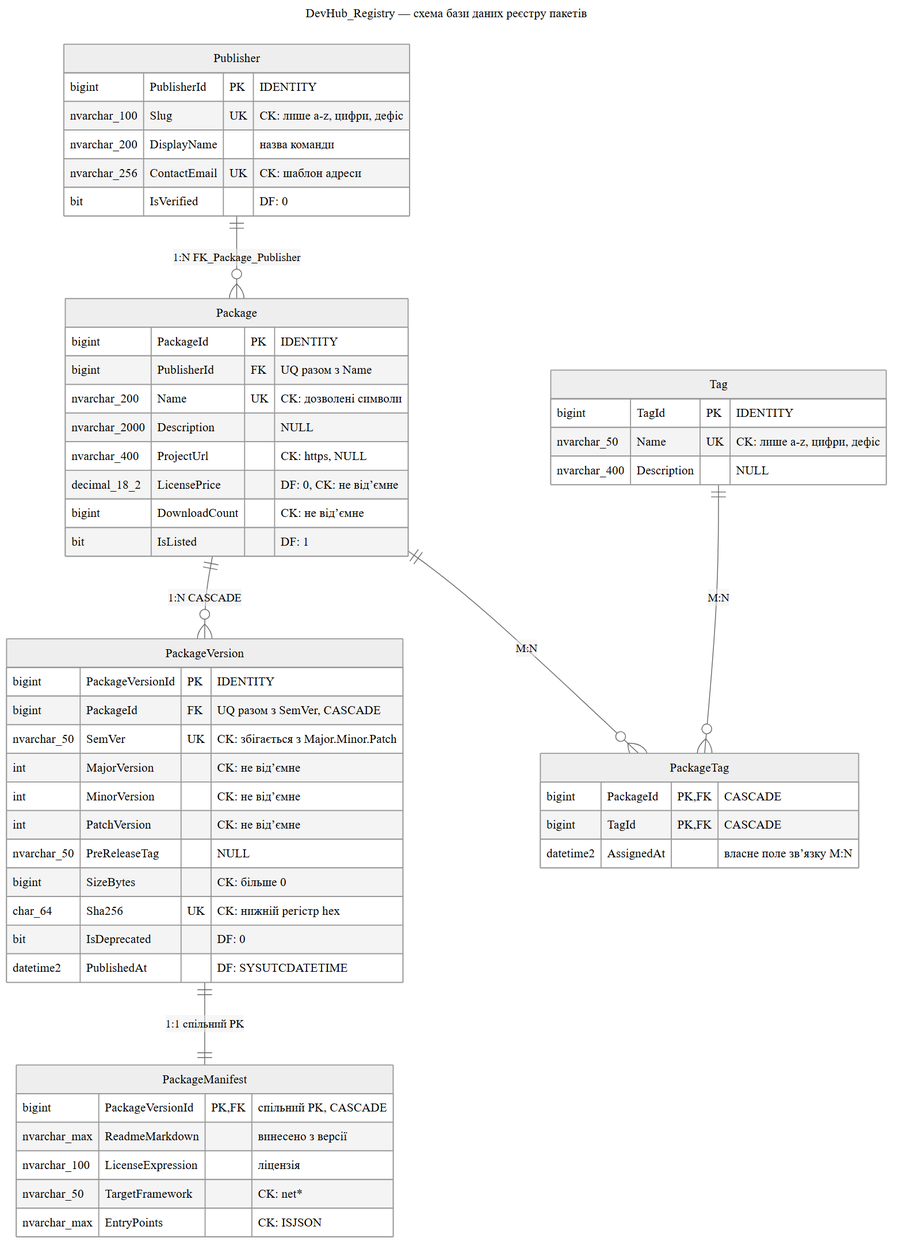
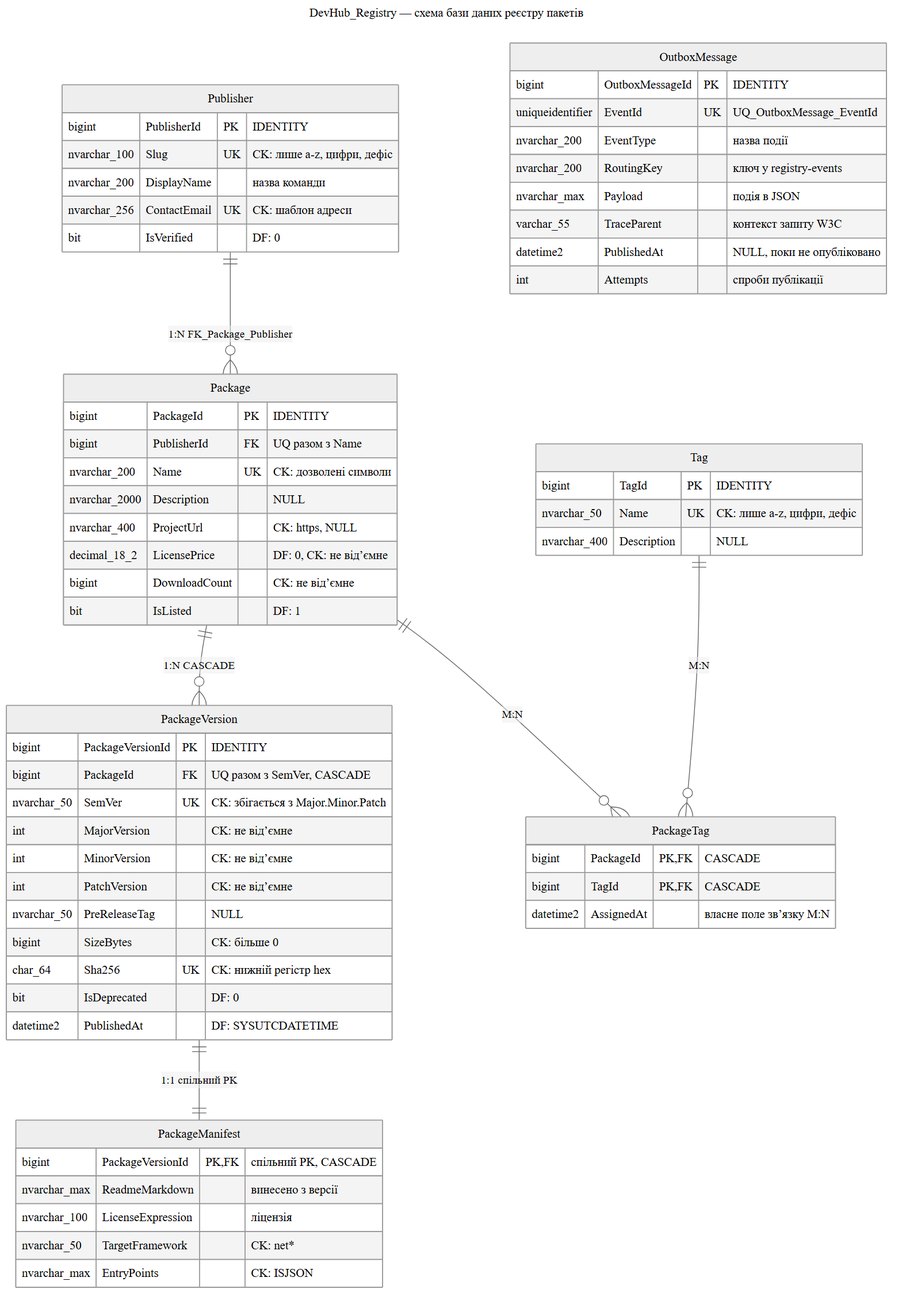
Update: README event-driven section, ERDs and screenshots

diff --git a/README.md b/README.md
@@ -9,7 +9,7 @@ DevHub – внутрішня платформа розробників одні
 
 | № | Контекст | БД | Технологія | Сутності / колекції |
 | --- | --- | --- | --- | --- |
-| 1 | Збірки CI/CD | `DevHub_Cicd` | SQL Server + ADO.NET і Dapper | `Pipeline`, `Agent`, `BuildRun`, `BuildRunDetail`, `BuildStep`, `Artifact`, `ArtifactUsage`, `RunStatusHistory` |
+| 1 | Збірки CI/CD | `DevHub_Cicd` | SQL Server + ADO.NET і Dapper | `Pipeline`, `Agent`, `BuildRun`, `BuildRunDetail`, `BuildStep`, `Artifact`, `ArtifactUsage`, `RunStatusHistory`, `Package` (копія реєстру) |
 | 2 | Реєстр пакетів | `DevHub_Registry` | SQL Server + EF Core (Code First) | `Publisher`, `Package`, `PackageVersion`, `PackageManifest`, `Tag`, `PackageTag` |
 | 3 | Телеметрія й обговорення | `devhub_telemetry` | MongoDB | `buildEvents`, `crashReports`, `discussions`, `packageInsights` |
 
@@ -53,6 +53,8 @@ DevHub – внутрішня платформа розробників одні
 | Поле | Де зберігається | Джерело (власник даних) | Політика узгодженості |
 | --- | --- | --- | --- |
 | `cicd.Pipeline.PackageKey` | БД збірок (`DevHub_Cicd`) | `registry.Publisher.Slug` + `registry.Package.Name` (Реєстр) | оновлюється подіями з Реєстру |
+| `cicd.Package.PackageName`, `cicd.Package.PublisherSlug`, `cicd.Package.PackageKey`, `cicd.Package.LicensePrice` | БД збірок (`DevHub_Cicd`) | `registry.Package.Name`, `registry.Publisher.Slug`, `registry.Package.LicensePrice` (Реєстр) | оновлюється подіями з Реєстру |
+| `cicd.Artifact.LicensePrice` | БД збірок (`DevHub_Cicd`) | `registry.Package.LicensePrice` через `cicd.Package` (Реєстр) | знімок на момент збірки, не оновлюється |
 | `cicd.Artifact.PackageName` | БД збірок (`DevHub_Cicd`) | `registry.Package.Name` (Реєстр) | знімок на момент збірки, не оновлюється |
 | `cicd.Artifact.PublisherSlug` | БД збірок (`DevHub_Cicd`) | `registry.Publisher.Slug` (Реєстр) | знімок на момент збірки, не оновлюється |
 | `cicd.Artifact.PackageKey` | БД збірок (`DevHub_Cicd`) | `registry.Publisher.Slug` + `registry.Package.Name` (Реєстр) | знімок на момент збірки, не оновлюється |
@@ -256,9 +258,9 @@ Gateway сервіс доступний на `http://localhost:5000`, напря
 Unit of Work відкриває одне з’єднання на HTTP-запит, і всі репозиторії працюють через нього та
 через одну поточну транзакцію. Найважливіша операція – завершення запуску
 (`POST /api/build-runs/{id}/complete`), що в одній транзакції переводить запуск у `Succeeded`
-процедурою `usp_TransitionRunStatus`, додає артефакти, зв’язує їх із запуском і копіює з конвеєра
-Id, ключ та назву пакета як знімок за політикою дублювання, тож артефакт не залежить від того, що
-згодом станеться з пакетом у Реєстрі. Збій будь-якого кроку відкочує транзакцію повністю. Статус
+процедурою `usp_TransitionRunStatus`, додає артефакти, зв’язує їх із запуском і копіює з локальної
+копії пакета `cicd.Package` його Id, ключ, назву й ціну ліцензії як знімок за політикою дублювання, тож
+артефакт не залежить від того, що згодом станеться з пакетом у Реєстрі. Збій будь-якого кроку відкочує транзакцію повністю. Статус
 запуску тоді лишається `Running`.
 
 Рівень ізоляції – `READ COMMITTED`. Процедури самі блокують рядок, який змінюють
@@ -982,3 +984,174 @@ Dashboard показує стан кожного ресурсу, а `WaitFor` ч
 ![Відповідь /health/ready з Degraded при зупиненому Redis](docs/screenshots/health-ready-degraded.png)
 
 ![Resources: сервіси зі станом Unhealthy при зупиненому SQL Server](docs/screenshots/resources-health.png)
+
+## Подієва взаємодія через RabbitMQ
+
+У політиці дублювання частину копій позначено як «оновлюється подіями з Реєстру»: `cicd.Pipeline.PackageKey`,
+назва й ключ пакета в `discussions` і `packageInsights`. Тепер ці події існують. Реєстр публікує в RabbitMQ
+кожну зміну пакета, а сервіс збірок і сервіс телеметрії оновлюють свої копії самі, не звертаючись до реєстру.
+Копія відстає від реєстру на частки секунди. Поля-знімки події не змінюють.
+
+### RabbitMQ в AppHost
+
+`AppHost.cs` додає брокер викликом `AddRabbitMQ("messaging").WithDataVolume().WithManagementPlugin()`. Том
+зберігає черги й повідомлення між перезапусками, а плагін керування відкриває веб-інтерфейс: у Dashboard це
+ендпоінт `management` ресурсу `messaging`, користувач `guest`, пароль – параметр `messaging-password` у user
+secrets AppHost. Посилання на брокер із `WaitFor` отримують `registry-api`, який публікує події, та
+`cicd-api` і `telemetry-api`, які їх споживають. Кожен сервіс підключається викликом
+`builder.AddRabbitMQClient("messaging")` з пакета `Aspire.RabbitMQ.Client.v7`, що реєструє один
+`IConnection` на застосунок і health check брокера; канали `IChannel` з асинхронним API RabbitMQ.Client 7.x
+сервіс відкриває для окремих операцій, а з’єднання після перезапуску брокера відновлюється само разом з
+підписками споживачів. Звичайний пакет `Aspire.RabbitMQ.Client` версії 9.5.2 залежить від
+RabbitMQ.Client 6.x, тому не підходить. Вбудоване трасування клієнта вимкнено (`DisableTracing = true`),
+бо контекст через брокер передає власний код (розділ «Трасування»).
+
+Контейнери SQL Server, MongoDB, Redis і RabbitMQ мають сталі імена `devhub-sql`, `devhub-mongo`,
+`devhub-redis` і `devhub-rabbitmq`, мітку `com.docker.compose.project=devhub`, за якою Docker Desktop
+показує їх однією групою, і життєвий цикл `ContainerLifetime.Persistent`. Після зупинки AppHost вони
+працюють далі, а наступний запуск бере ті самі контейнери; зупиняє їх `docker stop`.
+
+### Топологія
+
+Топологію оголошує код під час старту (`Platform.EventBus/EventBusTopology.cs`). Повторне оголошення тієї
+самої черги нічого не змінює.
+
+| Об’єкт | Тип | Параметри |
+| --- | --- | --- |
+| `registry-events` | exchange, topic, durable | події реєстру з ключами `package.*` |
+| `registry-events.dlx` | exchange, direct, durable | dead letter exchange |
+| `cicd.registry-sync` | черга, durable | binding `package.*`; `x-dead-letter-exchange` = `registry-events.dlx`, `x-dead-letter-routing-key` = `cicd.registry-sync` |
+| `telemetry.registry-sync` | черга, durable | binding `package.renamed`; DLX так само, з ключем `telemetry.registry-sync` |
+| `<черга>.retry` | черга, durable | `x-message-ttl` 5000; після TTL повідомлення повертається в основну чергу |
+| `<черга>.dlq` | черга, durable | прив’язана до `registry-events.dlx` з ключем основної черги |
+
+Сервіс збірок тримає копію всього пакета, тому підписаний на всі події пакетів. Телеметрії потрібна лише
+назва, і її черга отримує тільки перейменування. Dead letter exchange має тип direct, а кожна черга передає
+в нього власну назву як ключ. Повідомлення, відхилене сервісом збірок, потрапляє лише в
+`cicd.registry-sync.dlq`, а не в DLQ кожного споживача.
+
+![Черги в Management UI: основні, retry з TTL і DLQ обох споживачів](docs/screenshots/rabbitmq-queues.png)
+
+![Exchange registry-events типу topic і його bindings](docs/screenshots/rabbitmq-exchange.png)
+
+### Події реєстру
+
+| Подія | Ключ | Операція реєстру | Споживачі |
+| --- | --- | --- | --- |
+| `PackageCreatedEvent` | `package.created` | `POST /api/packages` | збірки |
+| `PackageRenamedEvent` | `package.renamed` | `PUT /api/packages/{id}/name` | збірки, телеметрія |
+| `PackageLicensePriceChangedEvent` | `package.license_price_changed` | `PUT /api/packages/{id}/license-price` | збірки |
+| `PackageDeletedEvent` | `package.deleted` | `DELETE /api/packages/{id}` | збірки |
+
+Базовий record `IntegrationEvent` у `Platform.EventBus` має `EventId`, `OccurredAt` і `CorrelationId`.
+Конкретні події – незмінні record у `Services/Registry/Registry.Api/IntegrationEvents/Events/`. Їхні копії
+лише з тими полями, які читає споживач, лежать у папках `IntegrationEvents` сервісу збірок і сервісу
+телеметрії; спільної збірки з контрактами немає. Кожна подія несе повний поточний знімок пакета: Id, slug
+видавця, назву, ключ і ціну ліцензії, а також попереднє значення зміненого поля. Тому споживач оновить копію
+з будь-якої події, навіть якщо пропустив `PackageCreatedEvent`. Перейменування – нова операція реєстру. Назва
+входить у ключ `<publisher>/<name>`, отже разом з нею змінюється ключ, а посилання за Id лишаються чинними.
+
+### Публікація після збереження
+
+Подія не може піти раніше за зміну, яку описує. `PackageService` записує подію в таблицю
+`registry.OutboxMessage` тим самим `SaveChangesAsync`, що й зміну пакета, а одразу після збереження викликає
+`PublishPendingAsync`. Якщо запис у базу не вдався, події немає навіть у таблиці. Створення пакета загорнуто
+в явну транзакцію, бо Id, потрібний події, з’являється тільки після першого збереження. `RabbitMqEventPublisher`
+серіалізує подію в JSON (`System.Text.Json`, camelCase) і публікує її з `Persistent = true`, тож повідомлення
+переживе перезапуск брокера; `ContentType` має значення `application/json`, `MessageId` дорівнює `EventId`,
+у `Type` стоїть назва події, а заголовки `x-correlation-id` та `x-schema-version` несуть ідентифікатор запиту
+й версію схеми. Канал працює з підтвердженнями видавця, тому опублікованим рядок стає лише тоді, коли брокер
+прийняв повідомлення.
+
+Коли брокер недоступний, запит однаково отримує 204, а рядок лишається неопублікованим разом з текстом
+помилки. `OutboxDispatcher` кожні 5 секунд перевіряє таблицю й публікує рядки, старші за 10 секунд. Під час
+перевірки із зупиненим RabbitMQ зміна ціни відповіла за 62 мс; після запуску брокера подію опубліковано з
+чотирнадцятої спроби, і копія в сервісі збірок отримала нову ціну.
+
+### Споживачі
+
+`RabbitMqConsumer` у `Platform.EventBus` – базовий `BackgroundService`. У `ExecuteAsync` він створює канал,
+оголошує топологію своєї черги, задає `BasicQos` з `prefetchCount` 10 і підписується через
+`AsyncEventingBasicConsumer` з `BasicConsumeAsync(autoAck: false)`. З кожного повідомлення він бере тип із
+`BasicProperties.Type`, десеріалізує тіло й передає подію обробнику цього типу, створеному в окремому
+DI-scope, тож репозиторії й Unit of Work живуть рівно стільки, скільки обробка одного повідомлення; сервіси
+успадковують від нього `RegistryEventsConsumer`, де задано чергу, ключі й типи подій, і реєструють його
+через `AddHostedService`. Під час зупинки застосунку споживач скасовує підписку за
+`stoppingToken` і чекає, поки завершиться обробка поточного повідомлення.
+
+| Результат обробки | Дія | Рівень логу |
+| --- | --- | --- |
+| Успіх | `BasicAckAsync` | Information |
+| Некоректний JSON, невідомий тип, новіша версія схеми, помилка валідації | `BasicNackAsync(requeue: false)` → `registry-events.dlx` → DLQ | Error |
+| Тимчасовий збій: база недоступна, таймаут | повторна публікація в `<черга>.retry` з `x-retry-count` + 1, оригінал підтверджується | Warning |
+| Невдала третя повторна спроба | `BasicNackAsync(requeue: false)` → DLQ | Error |
+
+Повторювати через requeue не можна: повернене повідомлення приходить без змін, і лічильник у заголовку не
+зростає. Тому споживач публікує повідомлення заново, причому не в `registry-events`, а через стандартний
+exchange прямо в чергу `.retry` свого споживача. Такий повтор не дістається іншим підписникам, а 5 секунд TTL дають
+базі час відновитися. Кожен запис логу обробки має `EventId`, тип події, `CorrelationId`, назву черги й номер
+спроби; обробники додають Id пакета.
+
+### Ідемпотентність і порядок подій
+
+RabbitMQ доставляє повідомлення щонайменше один раз, і та сама подія може прийти двічі. Обробники сервісу
+збірок (`Services/Cicd/Cicd.Api/IntegrationEvents/Handlers/`) в одній транзакції Unit of Work вставляють
+`EventId` у таблицю `cicd.ProcessedEvent` з первинним ключем `EventId` і оновлюють копію. Порушення ключа
+(помилка 2627) означає, що подію вже оброблено: обробник записує це в лог і відкочує транзакцію. Копія
+змінюється, тільки якщо `OccurredAt` події новіший за `SourceChangedAt` рядка. Подія, що після повторів прийшла
+пізніше за новішу, нічого не перезаписує.
+
+MongoDB сервісу телеметрії працює без набору реплік, тож транзакцій на кілька документів там немає. Його
+`UpdateMany` змінює лише документи, у яких `packageSyncedAt` не новіший за подію, і повторне застосування тієї
+самої події нічого не змінює. Після оновлення `EventId` записується в колекцію `processedEvents` з унікальним
+`_id`. Оновлення збільшує й `version` обговорення: редагування, почате до перейменування, отримає 409 і не
+запише стару назву назад.
+
+### Реплікація копій
+
+| Копія | Що робить подія |
+| --- | --- |
+| `cicd.Package` (нова таблиця, локальний довідник пакетів) | вставляє або оновлює назву, ключ, видавця й ціну; видалення позначає `IsDeleted` |
+| `cicd.Pipeline.PackageKey` | отримує новий ключ після перейменування |
+| `discussions.packageName`, `packageKey`, `publisherSlug` | нові значення в усіх обговореннях пакета |
+| `packageInsights.packageName`, `packageKey`, `publisherSlug` | те саме для зведень |
+| `cicd.Artifact`, `crashReports`, `buildEvents` | нічого, це знімки |
+
+Завершення запуску збірки бере назву, ключ і ціну ліцензії з `cicd.Package`, і артефакт зберігає знімок ціни
+в новому стовпці `cicd.Artifact.LicensePrice`. Після зміни ціни в реєстрі нова ціна з’являється в
+`cicd.Package` за кілька секунд; ціна вже зібраних артефактів лишається тією, що була на момент збірки, а
+артефакти, зібрані до появи копії, мають у цьому стовпці NULL, бо ціни на той момент сервіс збірок не знав.
+
+### Трасування
+
+Перед публікацією `TracePropagation` створює span типу Producer і записує його контекст у заголовок
+`traceparent` у форматі W3C через пропагатор OpenTelemetry. Споживач читає заголовок (значення приходить як
+`byte[]`), відновлює контекст і починає span типу Consumer з тегами `messaging.system`,
+`messaging.destination.name` і `messaging.message.id`. `Platform.ServiceDefaults` підключає джерело
+`Platform.Messaging`, тому запит до Gateway, публікацію, обробку в обох сервісах і запити до баз видно в
+одному trace. Рядок outbox зберігає контекст запиту, і подія, яку диспетчер опублікував через хвилину, однаково
+потрапляє в trace свого запиту. Логи обох споживачів можна відфільтрувати за `CorrelationId` з заголовка
+`x-correlation-id`.
+
+![Trace перейменування: HTTP-запит, публікація в registry-events, обробка в cicd-api і telemetry-api, запити до баз](docs/screenshots/trace-http-publish-consume.png)
+
+### Перевірка
+
+1. Змініть ціну:
+   `curl -i -X PUT $GW/api/packages/1/license-price -H "Content-Type: application/json" -d '{"licensePrice":59.00}'`.
+   За кілька секунд `SELECT * FROM cicd.Package` у базі `DevHub_Cicd` показує 59.00 для пакета 1, а
+   артефакт 0.9.1 у `cicd.Artifact` зберігає 49.00.
+2. Перейменуйте пакет:
+   `curl -i -X PUT $GW/api/packages/2/name -H "Content-Type: application/json" -d '{"name":"devhub-identity"}'`.
+   Обидва обговорення пакета 2, рядок `cicd.Package` і конвеєр «devhub-auth CI» отримують ключ
+   `platform-team/devhub-identity`, а артефакти й звіт про збій зберігають стару назву.
+3. У Management UI опублікуйте ту саму подію ще раз з тим самим `message_id`. Лог споживача містить запис
+   «Duplicate … skipped», у `cicd.ProcessedEvent` нового рядка немає.
+4. У Dashboard зупиніть `cicd-api`, змініть кілька цін і запустіть сервіс знову. Поки його зупинено,
+   повідомлення чекають у `cicd.registry-sync`, а після запуску всі обробляються.
+5. Опублікуйте в `registry-events` з ключем `package.license_price_changed` тіло з некоректним JSON.
+   Повідомлення потрапляє в `cicd.registry-sync.dlq` із заголовком `x-death` і причиною `rejected`.
+6. Зупиніть `sql` і опублікуйте коректну подію. У лозі `cicd-api` з’являються записи «Retry 1/3», «2/3» і
+   «3/3» з інтервалом 5 секунд, після них повідомлення йде в DLQ.
+
+![Повідомлення з некоректним JSON у cicd.registry-sync.dlq із заголовком x-death](docs/screenshots/rabbitmq-dlq.png)

diff --git a/docs/contexts.md b/docs/contexts.md
@@ -11,7 +11,7 @@ DevHub – внутрішня платформа розробників одні
 
 | № | Контекст | БД | Технологія | Сутності / колекції |
 | --- | --- | --- | --- | --- |
-| 1 | Збірки CI/CD | `DevHub_Cicd` | SQL Server + ADO.NET і Dapper | `Pipeline`, `Agent`, `BuildRun`, `BuildRunDetail`, `BuildStep`, `Artifact`, `ArtifactUsage`, `RunStatusHistory` |
+| 1 | Збірки CI/CD | `DevHub_Cicd` | SQL Server + ADO.NET і Dapper | `Pipeline`, `Agent`, `BuildRun`, `BuildRunDetail`, `BuildStep`, `Artifact`, `ArtifactUsage`, `RunStatusHistory`, `Package` (копія реєстру) |
 | 2 | Реєстр пакетів | `DevHub_Registry` | SQL Server + EF Core (Code First) | `Publisher`, `Package`, `PackageVersion`, `PackageManifest`, `Tag`, `PackageTag` |
 | 3 | Телеметрія й обговорення | `devhub_telemetry` | MongoDB | `buildEvents`, `crashReports`, `discussions`, `packageInsights` |
 
@@ -30,6 +30,7 @@ DevHub – внутрішня платформа розробників одні
 | Запуск збірки | `BuildRun` | `BuildRunDetail`, `BuildStep`, `RunStatusHistory` | Створюється тригером, кілька хвилин змінює статус, після завершення незмінний. |
 | Агент | `Agent` | немає | Постійно захоплюється запусками й звільняється. |
 | Артефакт | `Artifact` | немає | Живе довше за запуск, який його створив; його споживають пізніші запуски (M:N через `ArtifactUsage`). |
+| Копія пакета | `Package` | немає | Створюється й оновлюється лише подіями реєстру; сервіс збірок сам її не змінює, а завершення запуску бере з неї знімок назви й ціни для артефакту. |
 
 ### №2 – Реєстр пакетів
 
